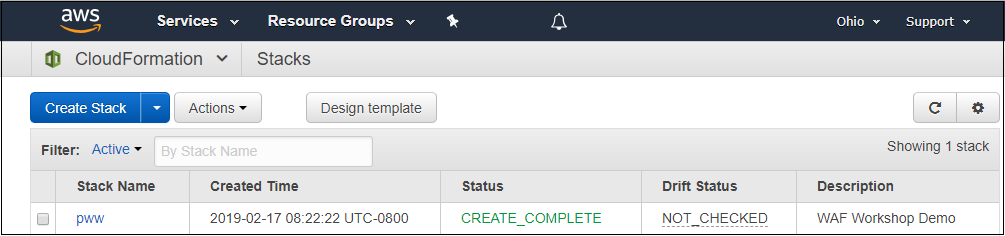
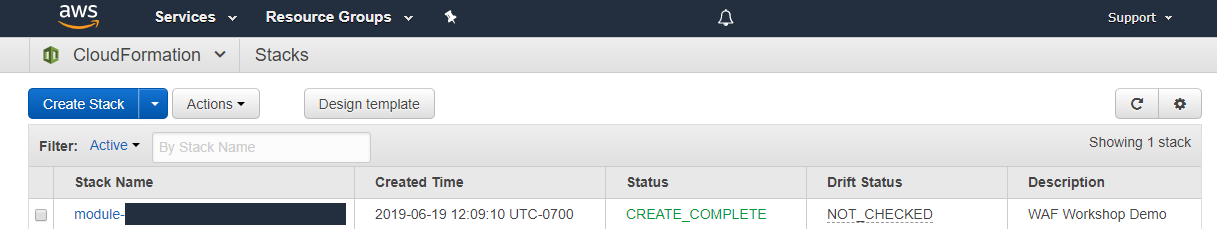
remove parts of tagging

diff --git a/docs/builder-session/assess.md b/docs/builder-session/assess.md
@@ -7,66 +7,35 @@ You are now going to assess the posture of the site at both the host layer and a
 
 In this section you will do the following tasks:
 
-1. Examine the stack that you built and its tags
+1. Examine the stack that you built
 
 2. Assess the host layer by installing an Amazon Inspector agent on the EC2 instances and running an Inspector scan to look for host layer vulnerabilities.
 
 4. Assess the network layer by running an external network scan using a network scanner.
 
-## Examine the stack that you built and its tags
+## Examine the stack that you built
 
-1. Go to the CloudFormation console in the same AWS region in which you created the stack in the Build Phase.  You should see a list of stacks similar to the figure below.
+1. At this point, you have either deployed a CloudFormation stack yourself or AWS has done so on your behalf.  You will need the name of this stack to proceed.  Go to the CloudFormation console.  You should see a list of stacks similar to the figure below.
 
     ![cloudformation-stack-list](./images/assess-cloudformation-stacks.png)
 
     If the console looks different than this, you may be using a newer version of the console.  In that case, use the menu on the left and click **Previous console**.
 
-    Locate the stack you created. In this documentation, the name of the stack is *pww*.  If AWS built the stack for you, it may be a much longer name that stars with "module" with a random string after that.   If the stack name ends with three trailing periods ("..."), then widen the Stack Name column so you can see the entire name of the stack.  Copy this stack name into a scratch file on your workstation in case you need it later.
+    If you built the stack yourself, you should see the name you supplied in the Stack Name column.  If AWS built the stack for you, the stack name will likely much longer name, for example it may start with "module" with a random string after that as in the figure above. Make sure you see the entire stack name.  If the stack name ends with three trailing periods ("..."), then widen the Stack Name column so you can see the entire name of the stack.  Copy the stack name into a scratch file on your workstation.
 
 2. Click the **check box** to the left of the stack name and then click the **Resources** tab below.  You will see a list of resources that were deployed by the stack as shown in the figure below.
 
     ![cloudformation-stack-resources](./images/assess-cloudformation-resources.png)
 
-    The *Type* column lists the type of the resouces.  Notice that you will not see any resources of type AWS::EC2::Instance.  The reason for this is that the CloudFormation stack did not deploy any.  The stack did, however, deploy an auto scaling group with a launch configuration that in turn launched the instances.  The auto scaling group itself has tags and was configured to propogate the same tags (attributes) to the instances it launches.
+    The *Type* column lists the type of the resouces.  Notice that you will not see any resources of type AWS::EC2::Instance.  The reason for this is that the CloudFormation stack did not deploy any.  The stack did, however, deploy an auto scaling group with a launch configuration that in turn launched the instances.  The auto scaling group itself has tags (special attributes) and was configured to propogate the same tags (attributes) to the instances it launches.
 
-    In a production environment, you may have a large number of resources that spin up and spin down because the load balancer will add and remove capacity as needed..  Knowing that the tags will be the same can make it easier for you to manage the environment regardless of how many instances exist at any point in time because you can use tags to identify the resources rather than relying on values like Instance Ids which can change.. You will now learn how to look up the Amazon EC2 instances using tags.
-
-
-3.  Go to the Amazon EC2 console, select **Instances** from the menu and look for instances having names that begins with the stack name followed by *-node*, *pww-node* in this example.  You should see three such instances.  If you cannot see them, type the instance name (*pww-node* in this case) into the search box.  Select one of them by checking the box to the left of the instance and then click on the *Tags* tab in the bottom section of the window.  You should see a table like that in the figure below.
-
-    ![ec2-instance-list](./images/assess-ec2-instance-list.png)
-
-4.  Notice that the instance has tags reflecting the CloudFormation stack name and stack id.  These tags were added because the auto scaling group propogated (copied) the tags from the auto scaling group to all instances that the auto scaling group creates.
-
-    You have now learned about the tags that you can use to look up AWS resources. You will take advantage of this feature when you set up Amazon Inspector later in this phase.
+    In a production environment, you may have a large number of resources that spin up and spin down because the load balancer will add and remove capacity as needed.  Knowing that the tags will be the same can make it easier for you to manage the environment regardless of how many instances exist at any point in time because you can use tags to identify the resources rather than relying on values like Instance Ids which can change.  You will learn more about how to use tags later in this workshop.
 
 ## Assess the Host Layer
 
-### Install the Inspector Agent on the Amazon EC2 instances
+### Setting up Amazon Inspector
 
-Now that you know how to identify the instances in the environment, you need to install the Amazon Inspector agent on them.  AWS Systems Manager provides a way for you to run commands across your Amazon EC2 instances.  The commands are defined in *documents*.  AWS provides a document that you will use to install the Amazon Inspector agent.  You will use tags to identify the instances on which to apply the document. 
-
-1.  Go to the AWS Systems Manager console.
-
-2.  Under the *Actions* menu on the left, click **Run Command**.  You will be taken to the AWS Systems Manager Run Command home screen.  Click the **Run a Command** button and the *Run a Command* screen will appear.
-
-3.  In the *Command document* window, enter *AmazonInspector* (no space betwen the words) into the search box and press Enter.  You should see a document named *AmazonInspector-ManageAWSAgent* appear.  Click the radio button to the left of that document as shown in the figure below.
-
-    ![ssm-run-command](./images/assess-run-command-document.png)
-
-4.  Scroll further down until you can see the *Targets* window.  Click the **Specifying a tag** radio button.  For the tag key, enter *aws:cloudformation:stack-name*.  For the value enter the name of the CloudFormation stack you created (*pww* in this example) and click *Add*.  Your screen should be similar to the figure below.
-
-    ![ssm-run-command-targets](./images/assess-run-command-targets.png)
-
-5.  Scroll down to the *Output options* window.  Clear the box next to *Enable writing to an S3 bucket* as shown in the figure below.
-
-    ![ssm-run-command-output](./images/assess-run-command-output.png)
-
-6.  Scroll to the bottom of the screen and click the *Run* button.  You will then be be taken to the command status window while the installation of the Amazon Inspector is running.  You can periodically update the command status by clicking on the refresh button within the window.   After the commands finish running, the *Overall status* should be *Success* as shown in the figure below.  The number of instances may vary based on the version of the template.
-
-    ![ssm-run-command-results](./images/assess-run-command-results.png)
-
-    You have now installed the Amazon Inspector agent on the instances in the environment.
+Now that you know the name of your AWS CloudFormation stack, you will configure Amazon Inspector to scan the instance for vilnerabilities.  You will first define the *target* for inspector, namely the instances that Inspector will scan.  You will then define the *template* which includes both the *target* you defined as well as the kinds of scans to run.  You will then run the scan against the template.
 
 ### Configure the Amazon Inspector target
 
@@ -90,7 +59,7 @@ Now that you know how to identify the instances in the environment, you need to 
 
 ### Configure the Amazon Inspector template and run the assessment
 
-Now that you have created an Amazon Inspector target, you will now create an Amazon Inspector tepmlate.  You use templates to define the Amazon Inspector targets and rule packages that comprise an assessment run.
+Now that you have created an Amazon Inspector target, you will now create an Amazon Inspector template.  You use templates to define the Amazon Inspector targets and rule packages that comprise an assessment run.
 
 1.  Go to the Amazon Inspector console, click **Assessment templates** on the menu, and then click **Create**.
 
@@ -117,7 +86,7 @@ Now that you have created an Amazon Inspector target, you will now create an Ama
 
 ### Identify the Application Load Balancer and Connect to the RedTeam Host
 
-1.  Go to the stack outputs and look for the website URL stored in the **albEndpoint** output value. Test access to the site by right clicking and opening in a new tab. Note the URL for your site as this will be used throughout this workshoop round.
+1.  Go to the stack outputs and look for the website URL stored in the **albEndpoint** output value. Test access to the site by right clicking and opening in a new tab. Note the URL for your site as this will be used throughout this workshp round.
 
 2. While still in stack outputs, right click the link in **RedTeamHostSession** and open in new tab. This will launch an AWS Systems Manager Session Manager to the host you will use to perform add hock scans against your site URL.
 
